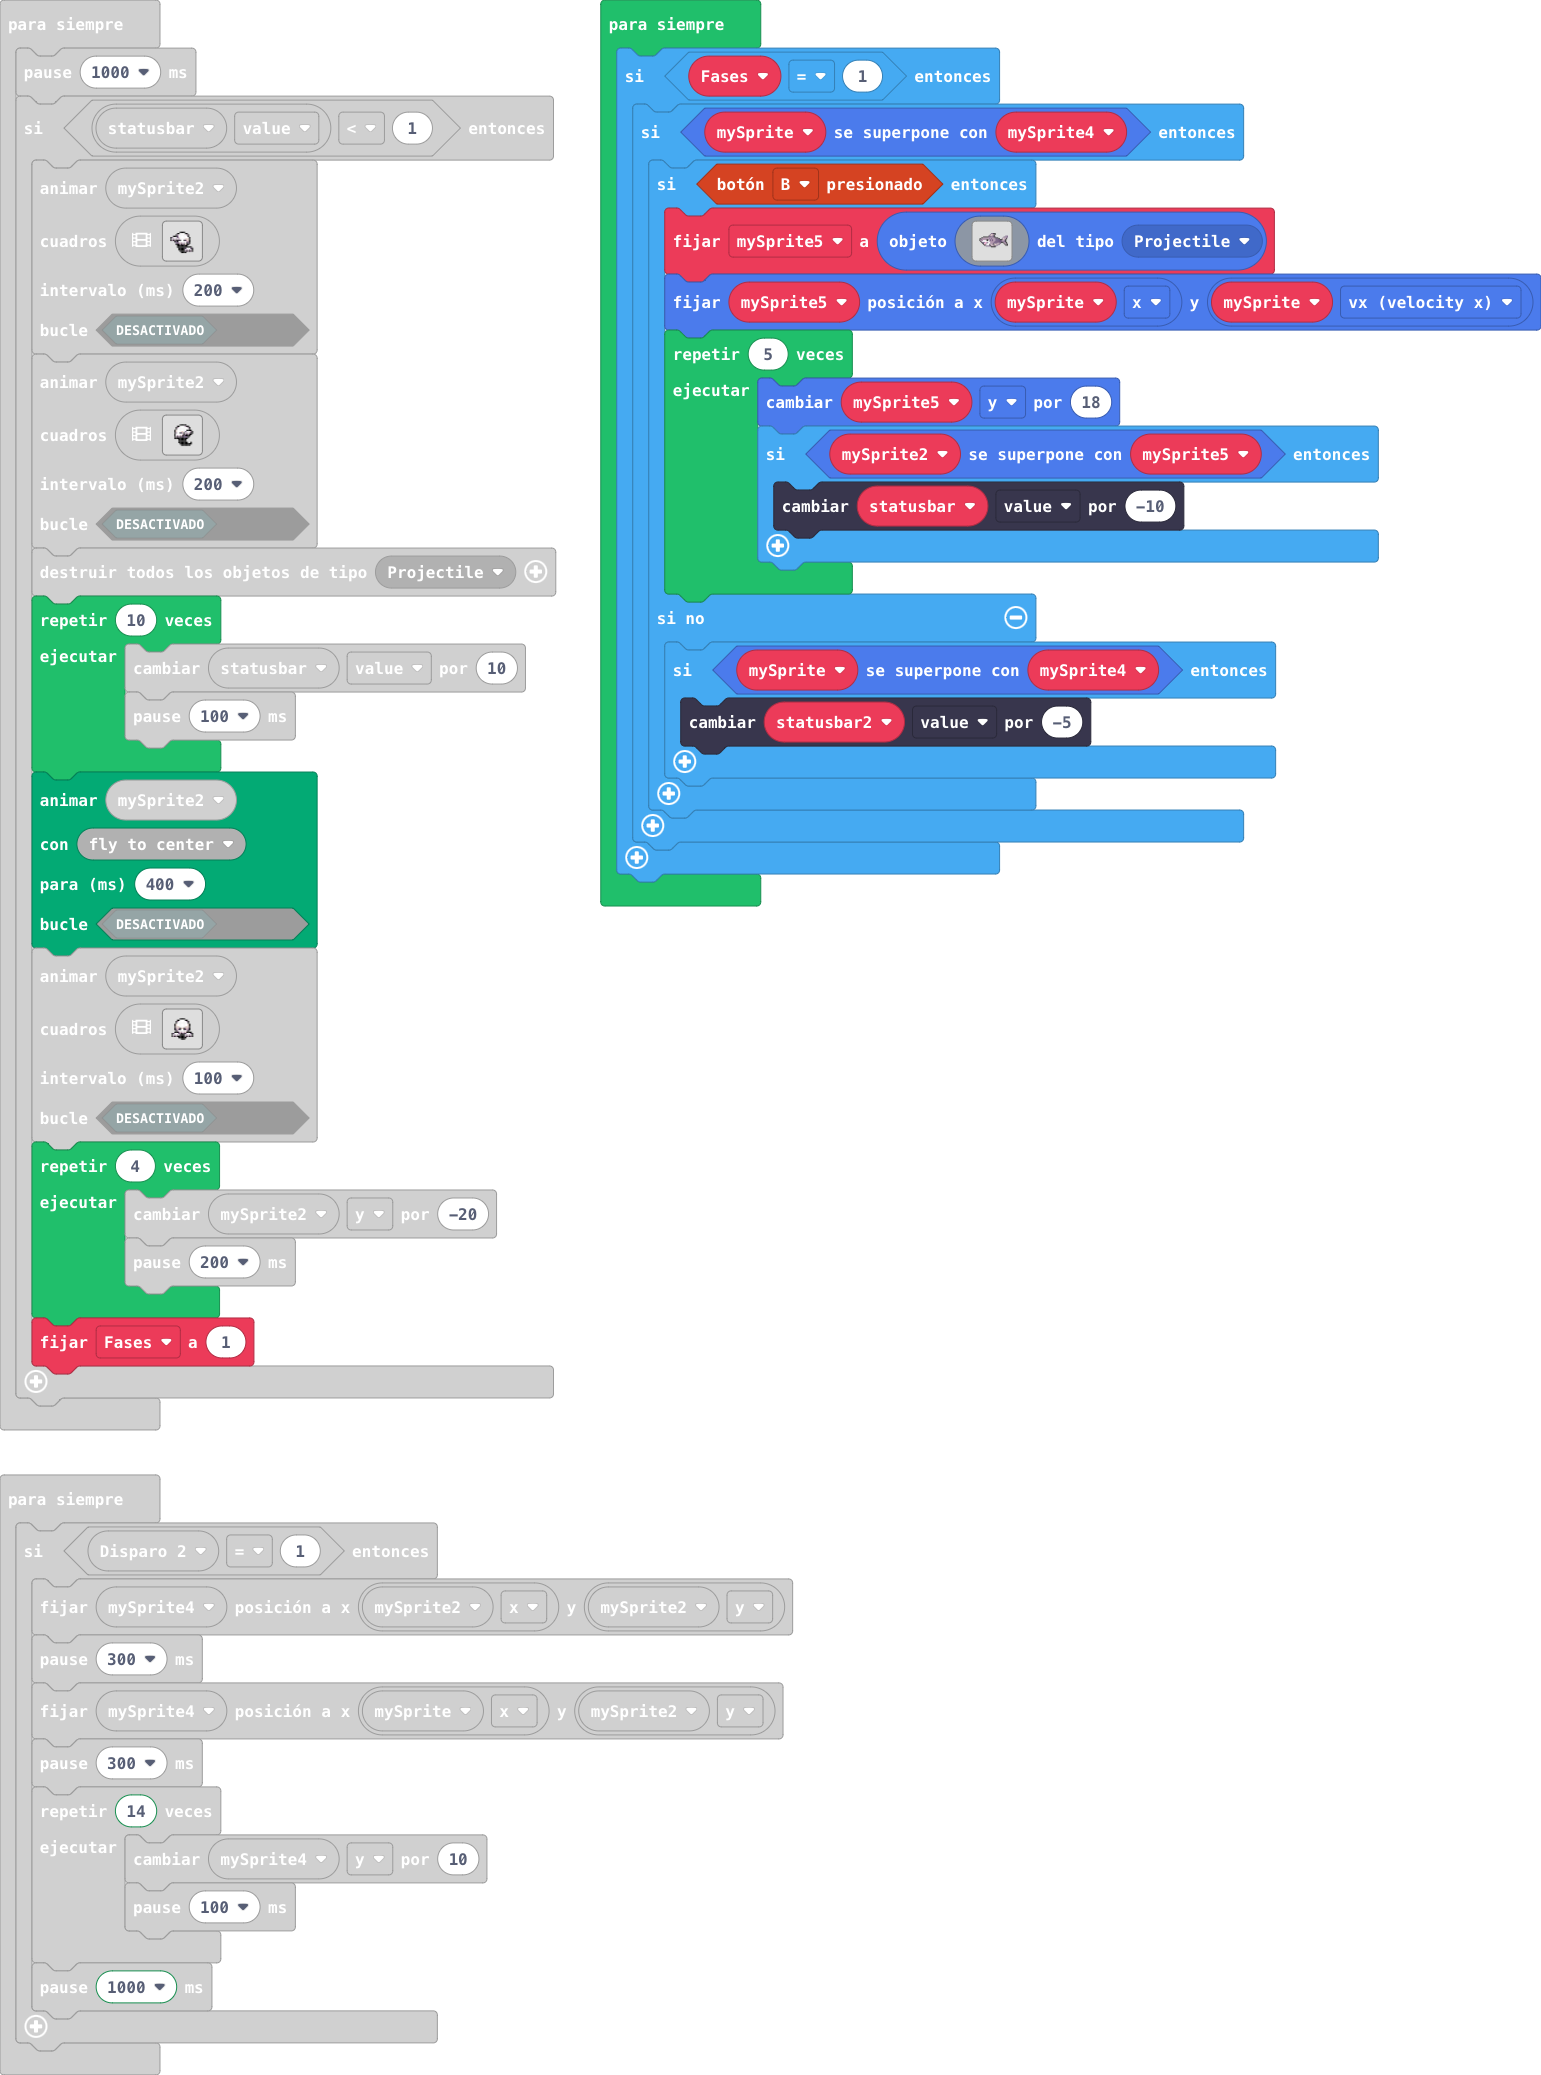
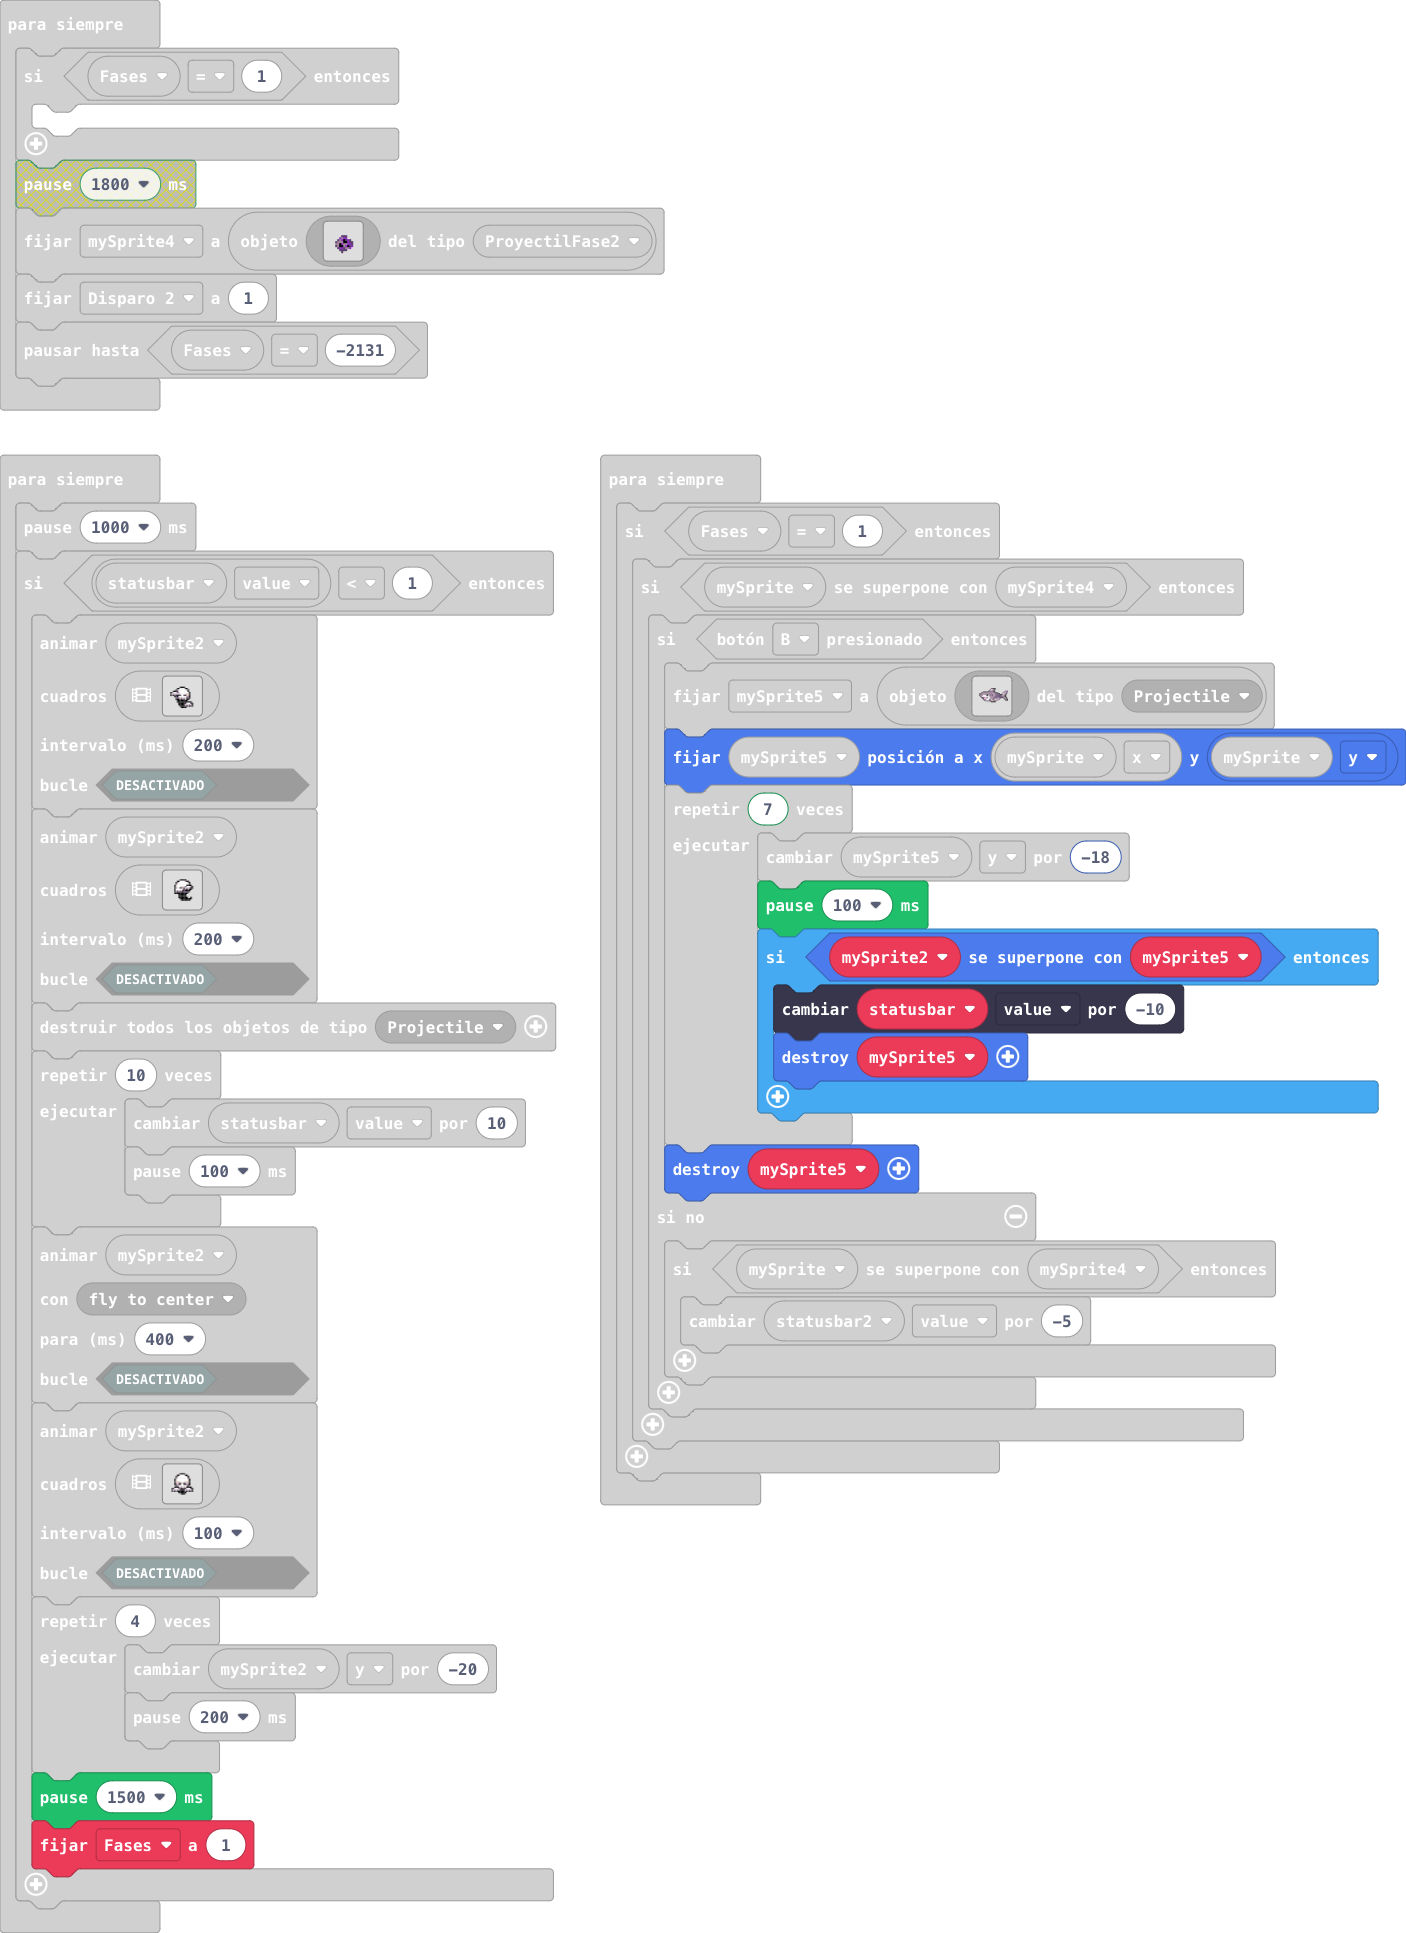
Actualizar main.blocks, main.ts

diff --git a/main.ts b/main.ts
@@ -597,7 +597,6 @@ forever(function () {
 })
 forever(function () {
     if (Fases == 1) {
-        pause(1800)
         mySprite4 = sprites.create(img`
             . . . . . . . . . . . . . . . . 
             . . . . . . . . . . . . . . . . 
@@ -911,6 +910,7 @@ forever(function () {
             mySprite2.y += -20
             pause(200)
         }
+        pause(1500)
         Fases = 1
     }
 })
@@ -941,13 +941,16 @@ forever(function () {
                     ...........cccccfbdbbfc.............
                     .................fffff..............
                     `, SpriteKind.Projectile)
-                mySprite5.setPosition(mySprite.x, mySprite.vx)
-                for (let index = 0; index < 5; index++) {
-                    mySprite5.y += 18
+                mySprite5.setPosition(mySprite.x, mySprite.y)
+                for (let index = 0; index < 7; index++) {
+                    mySprite5.y += -18
+                    pause(100)
                     if (mySprite2.overlapsWith(mySprite5)) {
                         statusbar.value += -10
+                        sprites.destroy(mySprite5)
                     }
                 }
+                sprites.destroy(mySprite5)
             } else {
                 if (mySprite.overlapsWith(mySprite4)) {
                     statusbar2.value += -5
